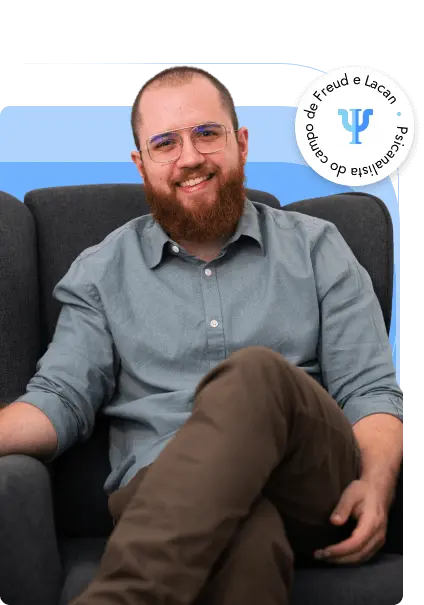
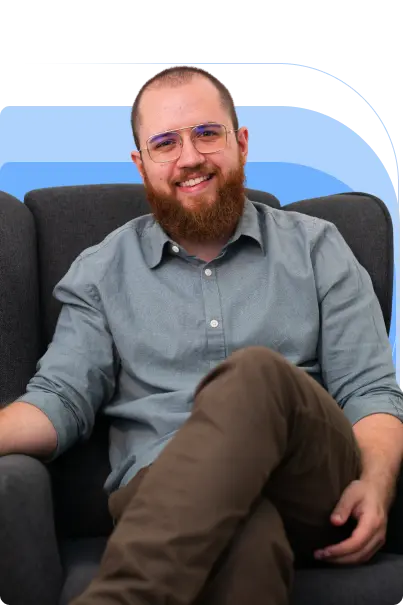
fix: removed selo

diff --git a/index.html b/index.html
@@ -196,9 +196,10 @@
         </div>
 
         <div class="s-hero__image" data-aos="fade-down" data-aos-duration="1000">
+          <!-- <img src="img/selo.svg" alt="+7000 horas" title="selo" class="" width="100" height="100"> -->
           <img src="img/tag.svg" alt="+7000 horas" title="+7000 horas" class="tag tag1" width="210" height="55">
           <img src="img/tag2.svg" alt="USP" title="USP" class="tag tag2" width="180px" height="55">
-          <img src="img/guilherme.webp" alt="Dr. Henrique Secotte" title="Dr. Henrique Secotte" width="424"
+          <img src="img/guilherme.png" alt="Dr. Henrique Secotte" title="Dr. Henrique Secotte" width="424"
             height="auto" decoding="async" fetchpriority="high">
         </div>
       </div>
